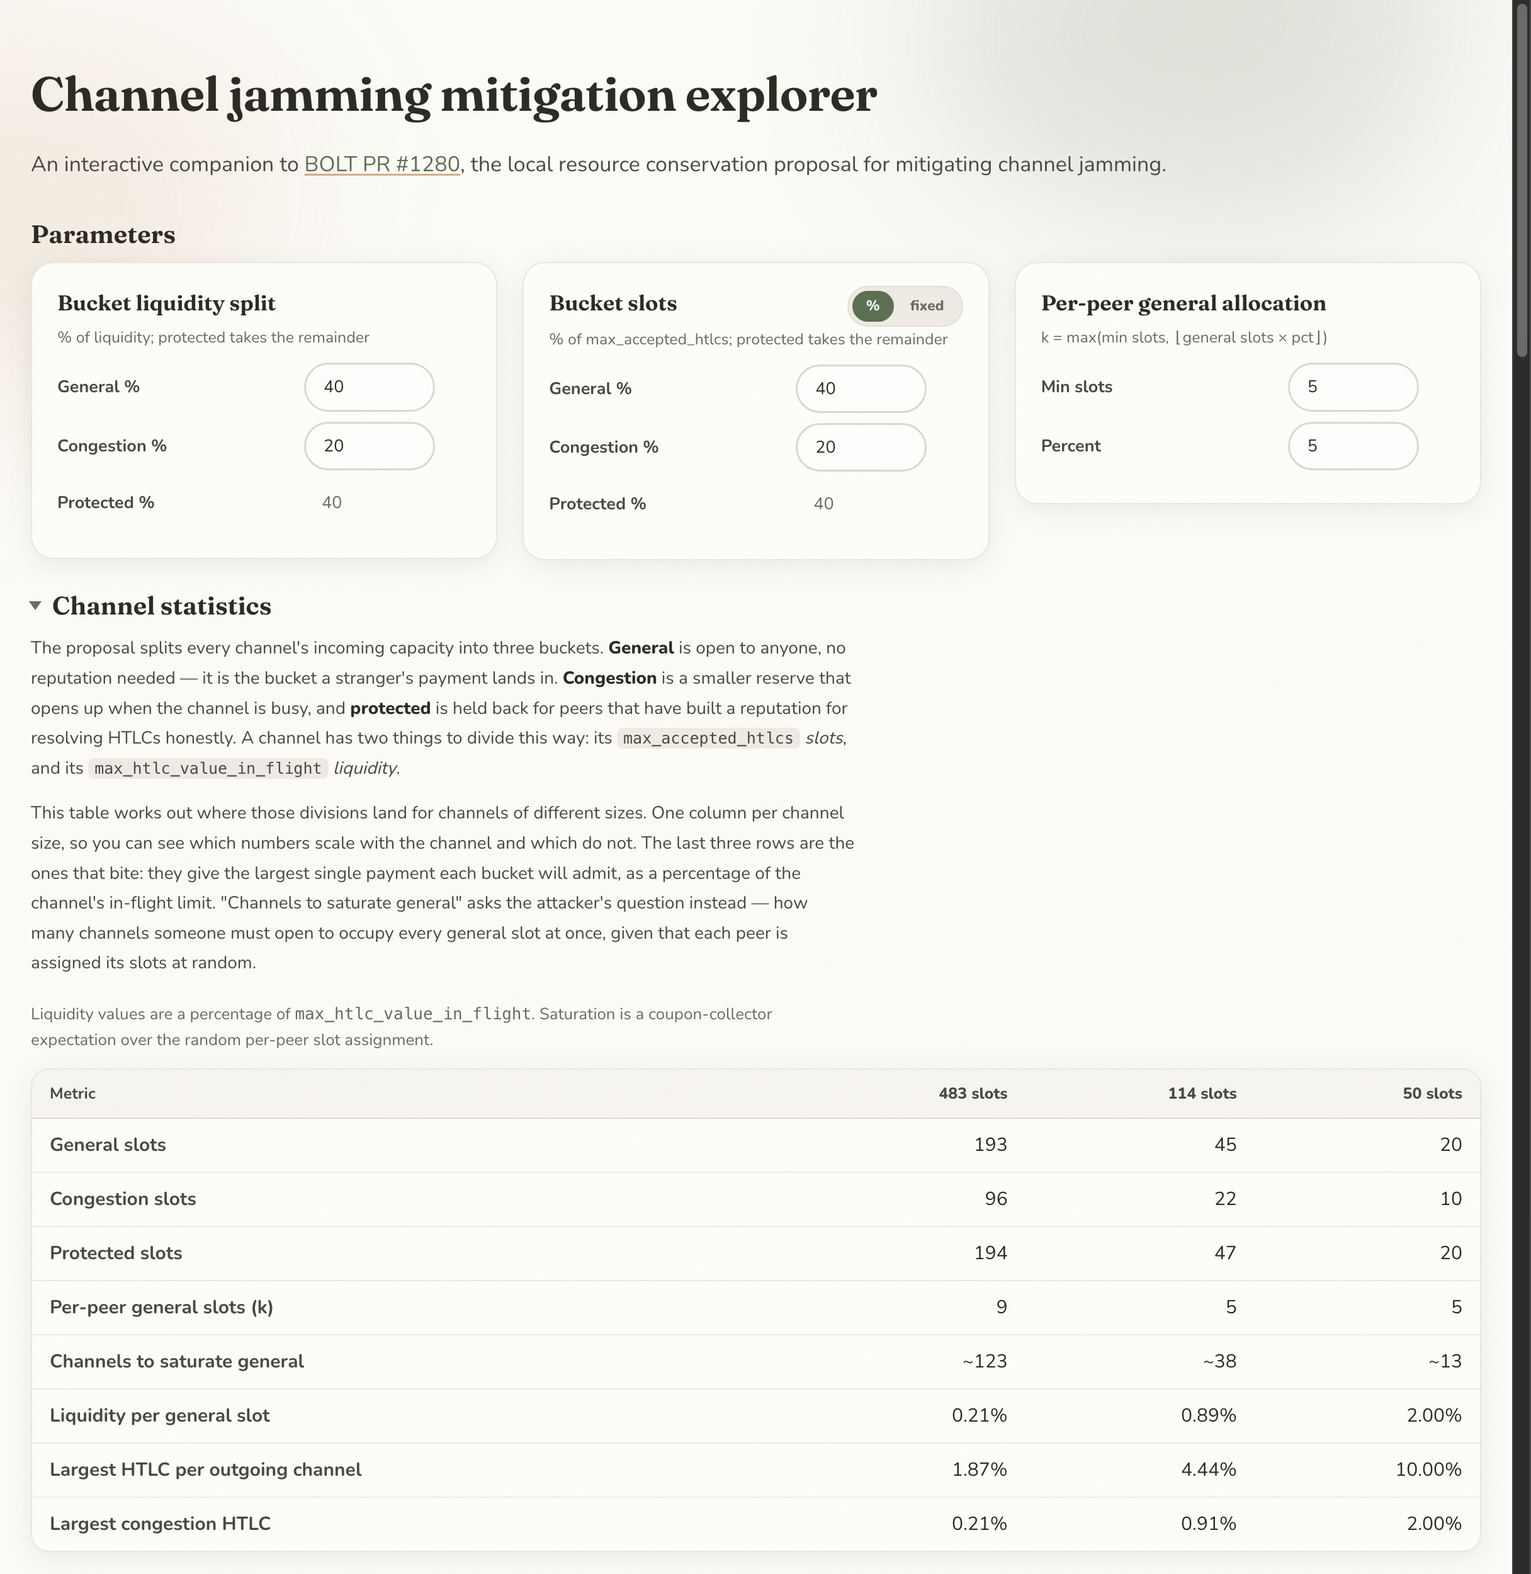
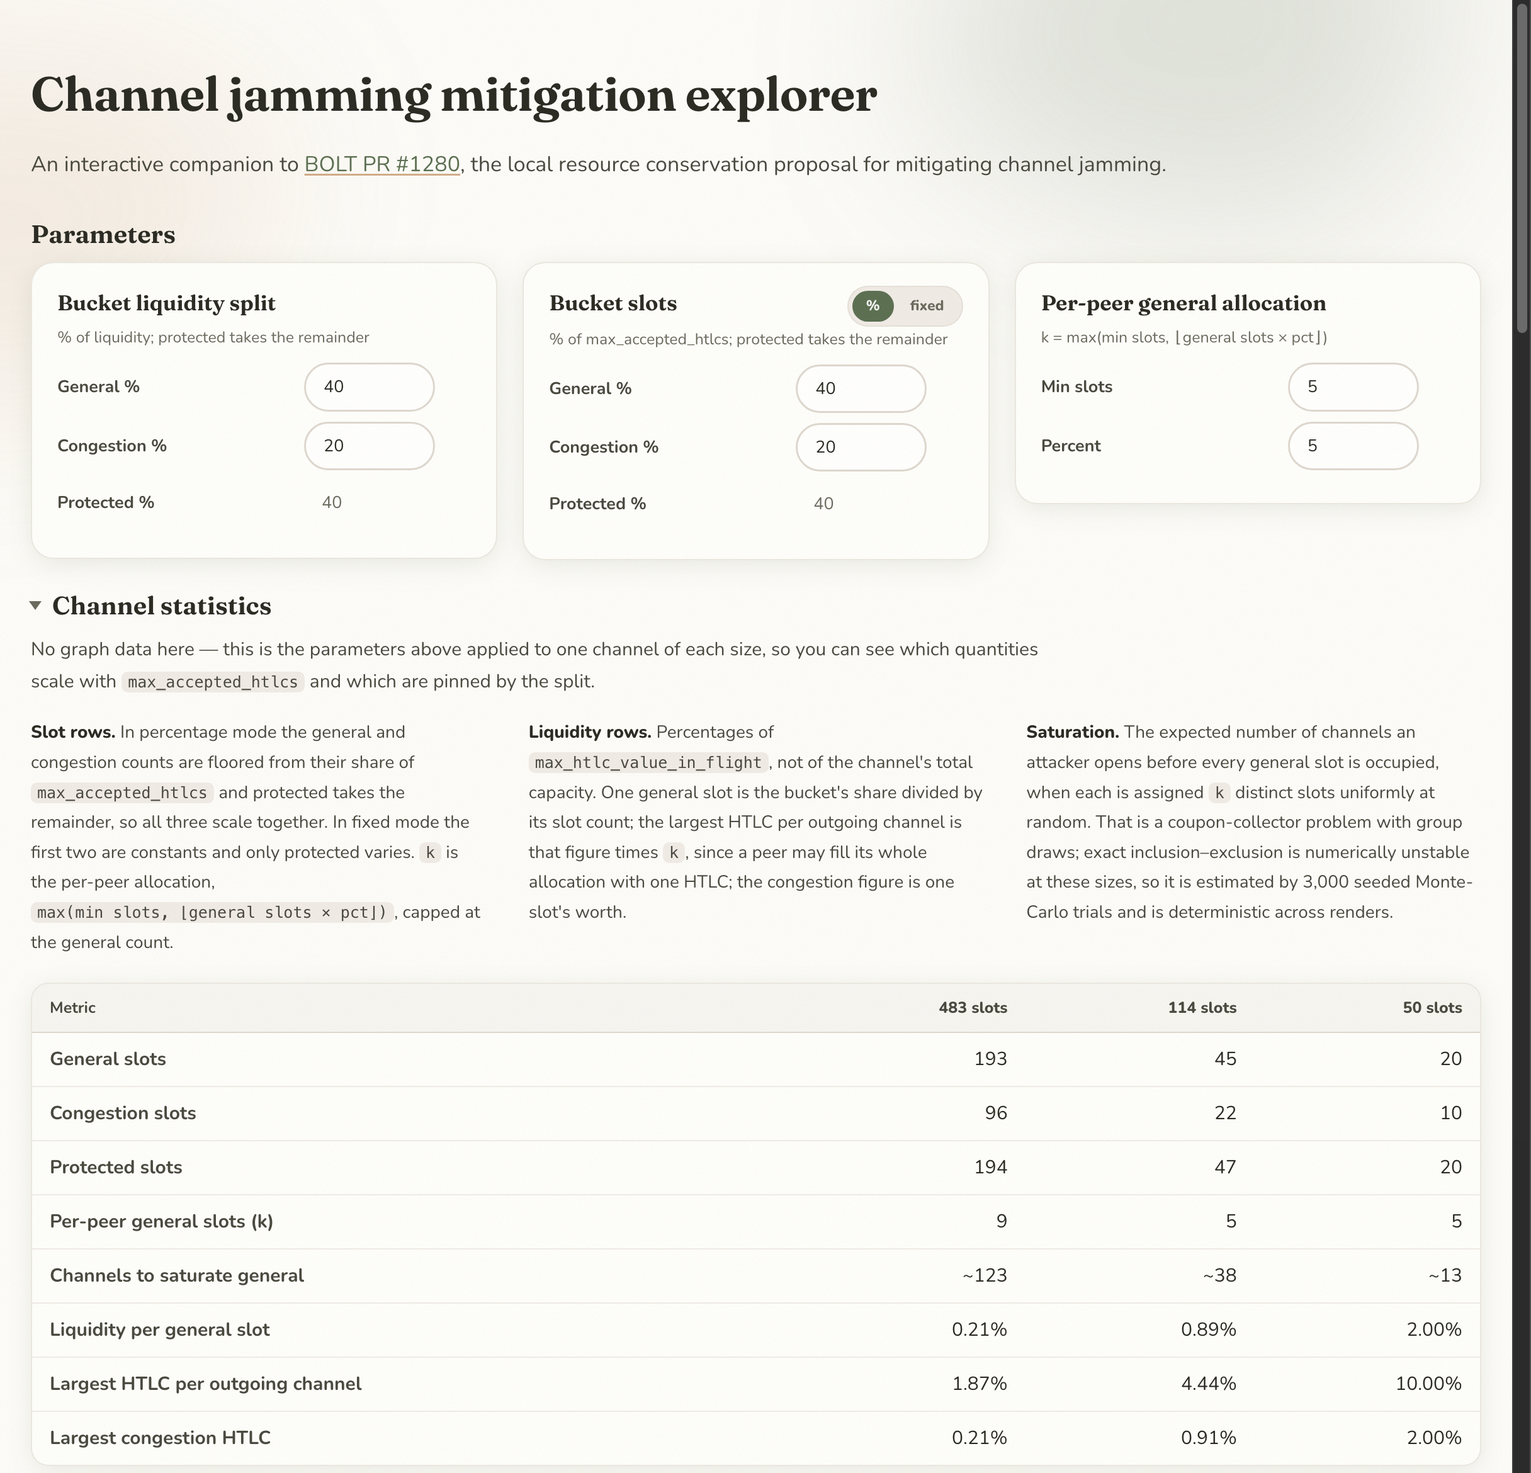
Rewrite the section copy as method notes across the full width
The prose was explaining the proposal to someone who had never met it,
and doing so in a single 78ch column that left half the page empty
beside tables that ran the full width.

It now assumes the reader knows the scheme and documents the data and
the arithmetic instead: which values come from the graph and which from
the parameters, how directions are filtered and what stands in for
max_htlc_value_in_flight, the nearest-rank percentile definition, the
two weightings written out as the ratios they are, and the fact that
saturation is 3,000 seeded Monte-Carlo trials because the exact
inclusion-exclusion is unstable at these sizes.

Layout follows: a lead sentence at a readable measure, then a
three-column grid of labelled notes spanning the same width as the table
beneath. The routability derivation becomes three numbered cards
side by side, one per step, and the caveats sit in three columns rather
than a narrow stack.

diff --git a/index.html b/index.html
@@ -69,32 +69,39 @@
       <summary class="results-head">Channel statistics</summary>
       <div class="section-intro">
         <p>
-          The proposal splits every channel's incoming capacity into three
-          buckets. <strong>General</strong> is open to anyone, no reputation
-          needed — it is the bucket a stranger's payment lands in.
-          <strong>Congestion</strong> is a smaller reserve that opens up when
-          the channel is busy, and <strong>protected</strong> is held back for
-          peers that have built a reputation for resolving HTLCs honestly. A
-          channel has two things to divide this way: its
-          <code>max_accepted_htlcs</code> <em>slots</em>, and its
-          <code>max_htlc_value_in_flight</code> <em>liquidity</em>.
+          No graph data here — this is the parameters above applied to one
+          channel of each size, so you can see which quantities scale with
+          <code>max_accepted_htlcs</code> and which are pinned by the split.
         </p>
-        <p>
-          This table works out where those divisions land for channels of
-          different sizes. One column per channel size, so you can see which
-          numbers scale with the channel and which do not. The last three rows
-          are the ones that bite: they give the largest single payment each
-          bucket will admit, as a percentage of the channel's in-flight limit.
-          "Channels to saturate general" asks the attacker's question instead —
-          how many channels someone must open to occupy every general slot at
-          once, given that each peer is assigned its slots at random.
-        </p>
+        <div class="intro-cols">
+          <p>
+            <strong>Slot rows.</strong> In percentage mode the general and
+            congestion counts are floored from their share of
+            <code>max_accepted_htlcs</code> and protected takes the remainder,
+            so all three scale together. In fixed mode the first two are
+            constants and only protected varies. <code>k</code> is the per-peer
+            allocation, <code>max(min slots, ⌊general slots × pct⌋)</code>,
+            capped at the general count.
+          </p>
+          <p>
+            <strong>Liquidity rows.</strong> Percentages of
+            <code>max_htlc_value_in_flight</code>, not of the channel's total
+            capacity. One general slot is the bucket's share divided by its slot
+            count; the largest HTLC per outgoing channel is that figure times
+            <code>k</code>, since a peer may fill its whole allocation with one
+            HTLC; the congestion figure is one slot's worth.
+          </p>
+          <p>
+            <strong>Saturation.</strong> The expected number of channels an
+            attacker opens before every general slot is occupied, when each is
+            assigned <code>k</code> distinct slots uniformly at random. That is
+            a coupon-collector problem with group draws; exact
+            inclusion–exclusion is numerically unstable at these sizes, so it is
+            estimated by 3,000 seeded Monte-Carlo trials and is deterministic
+            across renders.
+          </p>
+        </div>
       </div>
-      <p class="table-caption">
-        Liquidity values are a percentage of
-        <code>max_htlc_value_in_flight</code>. Saturation is a coupon-collector
-        expectation over the random per-peer slot assignment.
-      </p>
       <div id="metrics"></div>
     </details>
 
@@ -102,23 +109,39 @@
       <summary class="results-head">Channel distribution</summary>
       <div class="section-intro">
         <p>
-          Knowing a bucket admits, say, 1.87% of a channel's liquidity does not
-          tell you whether that is enough to be useful. This table answers the
-          practical version: pick a dollar amount, and it reports the share of
-          real mainnet channels that could carry a payment that size through
-          the chosen bucket.
+          The first table that touches the graph: each cell is the share of
+          real mainnet channels whose bucket limit clears a payment of at least
+          that size.
         </p>
-        <p>
-          Each directed channel advertises a <code>max_htlc</code>, the largest
-          single HTLC it will accept. The bucket lets a peer use some fraction
-          of that, so the channel clears a $X payment when
-          <code>max_htlc</code> × fraction ≥ $X. Every kept edge in the graph is
-          tested against that bar and the table reports how many pass. Rows are
-          the dollar thresholds, the outer columns are channel sizes, and the
-          inner columns are BTC prices — a payment is a fixed number of dollars
-          but a channel is a fixed number of sats, so the answer moves with the
-          price. Darker cells mean more of the network clears.
-        </p>
+        <div class="intro-cols">
+          <p>
+            <strong>The data.</strong> An <code>lncli describegraph</code> dump,
+            taken per direction rather than per channel. A direction is kept
+            when the advertising node has more than one channel — single-channel
+            nodes are assumed not to forward — and when it advertises a non-zero
+            <code>max_htlc_msat</code>. That value, floored to sats, is the
+            edge's base: it is the observable lower bound on
+            <code>max_htlc_value_in_flight</code>, which gossip does not carry.
+            The footer gives the kept and dropped counts.
+          </p>
+          <p>
+            <strong>The calculation.</strong> A threshold in dollars converts to
+            sats at the column's BTC price, then divides by the bucket's
+            fraction to give the base value an edge needs:
+            <code>required = usd → sat ÷ fraction</code>. The kept values are
+            held as an ascending histogram with a suffix-count array, so the
+            share of edges at or above <code>required</code> is one binary
+            search per cell.
+          </p>
+          <p>
+            <strong>Reading it.</strong> Rows are thresholds, outer columns are
+            channel sizes, inner columns are BTC prices — a payment is a fixed
+            number of dollars while a channel is a fixed number of sats, so the
+            answer moves with price. Darker means a larger share of the network
+            clears. The tab switches which bucket fraction is applied: the whole
+            per-peer allocation, or one congestion slot.
+          </p>
+        </div>
       </div>
       <div class="tabs" role="tablist">
         <button type="button" class="tab active" data-tab="general">General bucket</button>
@@ -133,21 +156,33 @@
       <summary class="results-head">Channel percentiles</summary>
       <div class="section-intro">
         <p>
-          The same relationship read the other way round. Rather than fixing a
-          payment size and counting the channels that clear it, this fixes a
-          position in the network and reports what a channel there can actually
-          push through each bucket.
+          The same edge set as above, inverted: instead of fixing a payment size
+          and counting the edges that clear it, this fixes a position in the
+          distribution and reports the dollars that position can move.
         </p>
-        <p>
-          Rank every directed channel by its advertised <code>max_htlc</code>.
-          The 50th percentile is the median channel — half the network
-          advertises less, half more — and the 90th is a well-funded one. For
-          each of those, the columns give the largest single payment the bucket
-          admits, in dollars: through a single general slot, through the whole
-          allocation one peer gets, and through a congestion slot. It is the
-          quickest way to see whether a typical channel can move a useful
-          amount of money without reputation, or only pocket change.
-        </p>
+        <div class="intro-cols">
+          <p>
+            <strong>The calculation.</strong> Rank the kept directions by
+            advertised <code>max_htlc</code> and take a nearest-rank percentile
+            — the smallest observed value at or below which at least p% of edges
+            fall, read off the same suffix array by binary search. That gives a
+            sat figure per row.
+          </p>
+          <p>
+            <strong>The columns</strong> multiply that figure by each bucket
+            fraction and convert to dollars at the selected price. Note that
+            "all general slots" means all <code>k</code> slots one peer is
+            allocated, not the whole general bucket — it is the largest single
+            HTLC that peer can send, which is the quantity that binds in
+            practice.
+          </p>
+          <p>
+            <strong>Caveats that carry over.</strong> These are percentiles of
+            what nodes <em>advertise</em>, not of what they can settle, and the
+            base value is a lower bound on the in-flight limit rather than the
+            limit itself. Both push the real figures up, not down.
+          </p>
+        </div>
       </div>
       <p class="table-caption" id="pct-caption"></p>
       <div class="table-wrap" id="pct-wrap"></div>
@@ -157,67 +192,67 @@
       <summary class="results-head">General-bucket routability</summary>
       <div class="section-intro">
         <p>
-          The three tables above look at one channel at a time. A payment does
-          not cross one channel — it crosses a route, and it fails if
-          <em>any</em> hop turns it away. This section follows that through, and
-          it is where the proposal's limits start to bite in a way the
-          per-channel view hides.
-        </p>
-        <p>
-          The question is narrow on purpose: how much payment traffic keeps
-          working with <em>no reputation at all</em>? Reputation has to be
-          earned, so a new node, a mobile wallet or anyone a routing node has
-          not seen before is relying on the general bucket alone. If the general
-          bucket cannot carry ordinary payments, those senders are pushed into
-          building reputation before they can transact.
+          Everything above is per channel. This composes the per-hop figure
+          along a route, which is where the general bucket's limits bind:
+          clearance multiplies, so a route is far worse than its hops suggest.
         </p>
 
-        <h3 class="method-head">How the numbers are worked out</h3>
-        <ol class="method-list">
+        <h3 class="method-head">How the curves are computed</h3>
+        <ol class="method-steps">
           <li>
-            <strong>One channel, one peer.</strong> The general bucket holds a
-            share of the channel's liquidity spread over its slots, and one
-            forwarding peer may occupy only <code>k</code> of those slots. That
-            gives the largest single payment that peer can push through
-            general: a fixed fraction of the channel's advertised
-            <code>max_htlc</code>.
+            <span class="step-n">1</span>
+            <strong>Per-channel limit</strong>
+            The largest single HTLC one peer can push through general is its
+            <code>k</code>-slot allocation's worth of the bucket's liquidity —
+            a fixed fraction of the edge's advertised <code>max_htlc</code>,
+            the same fraction the tables above use.
           </li>
           <li>
-            <strong>One hop.</strong> Apply that fraction to every directed
-            channel in the graph and count the ones still large enough to carry
-            the payment. That share is the per-hop curve — the chance a single
-            randomly chosen hop lets the payment through.
+            <span class="step-n">2</span>
+            <strong>Per hop</strong>
+            Invert it: a payment needs an edge of at least
+            <code>payment ÷ fraction</code>. The per-hop curve is the share of
+            the kept edge set at or above that, swept across the payment axis —
+            one binary search per sample, 160 samples per curve.
           </li>
           <li>
-            <strong>A whole route.</strong> A route clears only if every hop on
-            it clears. Treating hops as independent draws, a route of
-            <code>h</code> hops clears with probability
-            <code>(per-hop)<sup>h</sup></code>. The main chart draws three hops,
-            roughly the average Lightning path; the heatmap sweeps one through
-            six.
+            <span class="step-n">3</span>
+            <strong>Per route</strong>
+            A route clears only if every hop clears, so with hops treated as
+            independent draws an <code>h</code>-hop route clears with
+            probability <code>(per-hop)<sup>h</sup></code>. The chart draws
+            <code>h = 3</code>; the heatmap sweeps <code>h = 1…6</code>.
           </li>
         </ol>
 
-        <p>
-          Two curves, then, and the shaded wedge between them is what composing
-          hops costs you. Because the per-hop share is a probability below one,
-          raising it to a power drives it down fast: a hop that clears 80% of
-          the time gives a three-hop route that clears about half the time.
-          That gap is the whole reason to look at routes rather than channels.
-        </p>
-        <p>
-          The weighting toggle changes what is being counted, and the two
-          answers differ enormously.
-          <strong>By count</strong> gives every directed channel one vote, which
-          answers "what share of channels can do this". <strong>By
-          liquidity</strong> weights each channel by the size it advertises,
-          which leans towards the well-funded channels a payment is more likely
-          to be routed over. Neither is the share of real
-          <em>payments</em> that succeed — that would need traffic data nobody
-          publishes — so the honest reading is that the truth sits somewhere
-          between the two, and the gap between them is a measure of how much the
-          answer depends on where in the network you look.
-        </p>
+        <div class="intro-cols">
+          <p>
+            <strong>The two weightings.</strong> By count is
+            <code>qualifying edges ÷ all edges</code>. By liquidity is
+            <code>Σ max_htlc of qualifying edges ÷ Σ max_htlc of all edges</code>,
+            computed from a parallel suffix-sum over the same histogram, so
+            large edges count for more. Neither is the share of real
+            <em>payments</em> that clear — that needs traffic data nobody
+            publishes — and the two diverge by an order of magnitude at ordinary
+            payment sizes, which is the honest measure of how much the answer
+            depends on where you look.
+          </p>
+          <p>
+            <strong>The chart.</strong> Log payment axis over five decades. The
+            shaded wedge is the difference between the two curves, i.e. what
+            composing three hops costs: since the per-hop share is below one,
+            raising it to a power falls away fast, and a hop clearing 80% of the
+            time leaves a three-hop route at about half. The vertical line is
+            the selected payment size and can be dragged.
+          </p>
+          <p>
+            <strong>The heatmap.</strong> The same per-hop curve raised to each
+            power from one to six. Columns are 25 equal bins across the log
+            axis, each taking the payment size at its midpoint; shading is five
+            bands of a single-hue ramp, so a step in colour is a 20-point step
+            in clearance. Dragging across it moves the same cursor.
+          </p>
+        </div>
       </div>
       <p class="table-caption" id="rout-caption"></p>
       <div id="rout-controls-slot"></div>

diff --git a/style.css b/style.css
@@ -556,44 +556,97 @@ body.dragging-cursor { cursor: ew-resize; user-select: none; }
 .ramp-step { width: 26px; height: 11px; border-radius: 2px; }
 
 .caveats {
-  margin: 12px 0 0;
-  padding-left: 22px;
+  display: grid;
+  grid-template-columns: repeat(3, 1fr);
+  gap: 8px 34px;
+  margin: 10px 0 0;
+  padding: 0 0 0 18px;
   font-size: 13px;
   line-height: 1.7;
   color: var(--ink-2);
-  max-width: 78ch;
 }
-.caveats li { margin-bottom: 7px; }
+.caveats li { margin: 0; }
+@media (max-width: 1000px) { .caveats { grid-template-columns: 1fr; } }
 .caveats code { font-size: 11.5px; background: var(--stone); padding: 1px 5px; border-radius: 5px; }
 
-/* ---- section prose ---- */
+/* ---- section prose ----
+   Runs the full width of the tables it introduces. A single column at that
+   width would be an unreadable measure, so the body splits into columns and
+   each keeps a sane line length. */
 .section-intro {
-  max-width: 78ch;
-  margin: 0 0 18px;
+  margin: 0 0 20px;
   font-size: 14px;
   line-height: 1.7;
   color: var(--ink-2);
 }
-.section-intro p { margin: 0 0 12px; }
+.section-intro > p {
+  margin: 0 0 16px;
+  max-width: 92ch;
+  font-size: 15px;
+}
 .section-intro strong { font-weight: 800; color: var(--ink); }
 .section-intro code, .caveats code {
   font-size: 12.5px;
   background: var(--stone);
   padding: 1px 5px;
   border-radius: 5px;
+  white-space: nowrap;
 }
+
+.intro-cols {
+  display: grid;
+  grid-template-columns: repeat(3, 1fr);
+  gap: 8px 34px;
+}
+.intro-cols p { margin: 0; }
+@media (max-width: 1000px) { .intro-cols { grid-template-columns: 1fr 1fr; } }
+@media (max-width: 700px) { .intro-cols { grid-template-columns: 1fr; } }
 
 .method-head {
   font-family: var(--serif);
   font-size: 15px;
   font-weight: 650;
   color: var(--ink);
-  margin: 20px 0 8px;
+  margin: 22px 0 10px;
 }
-.method-list {
-  margin: 0 0 12px;
-  padding-left: 22px;
+
+/* Three parallel steps, so they sit side by side rather than stacking. */
+.method-steps {
+  display: grid;
+  grid-template-columns: repeat(3, 1fr);
+  gap: 16px;
+  margin: 0 0 22px;
+  padding: 0;
+  list-style: none;
+  counter-reset: none;
 }
-.method-list li { margin-bottom: 9px; }
-.method-list strong { font-weight: 800; color: var(--ink); }
-.caveats strong { font-weight: 800; color: var(--ink-2); }
+.method-steps li {
+  background: var(--surface);
+  border: 1px solid var(--border);
+  border-radius: 14px;
+  padding: 14px 16px;
+  box-shadow: var(--shadow-soft);
+}
+.method-steps strong {
+  display: block;
+  font-family: var(--serif);
+  font-size: 14.5px;
+  font-weight: 650;
+  color: var(--ink);
+  margin: 6px 0 6px;
+}
+.step-n {
+  display: inline-flex;
+  align-items: center;
+  justify-content: center;
+  width: 21px;
+  height: 21px;
+  border-radius: 999px;
+  background: var(--moss);
+  color: var(--pale);
+  font-size: 11.5px;
+  font-weight: 800;
+}
+@media (max-width: 900px) { .method-steps { grid-template-columns: 1fr; } }
+
+.caveats strong { font-weight: 800; color: var(--ink); }
